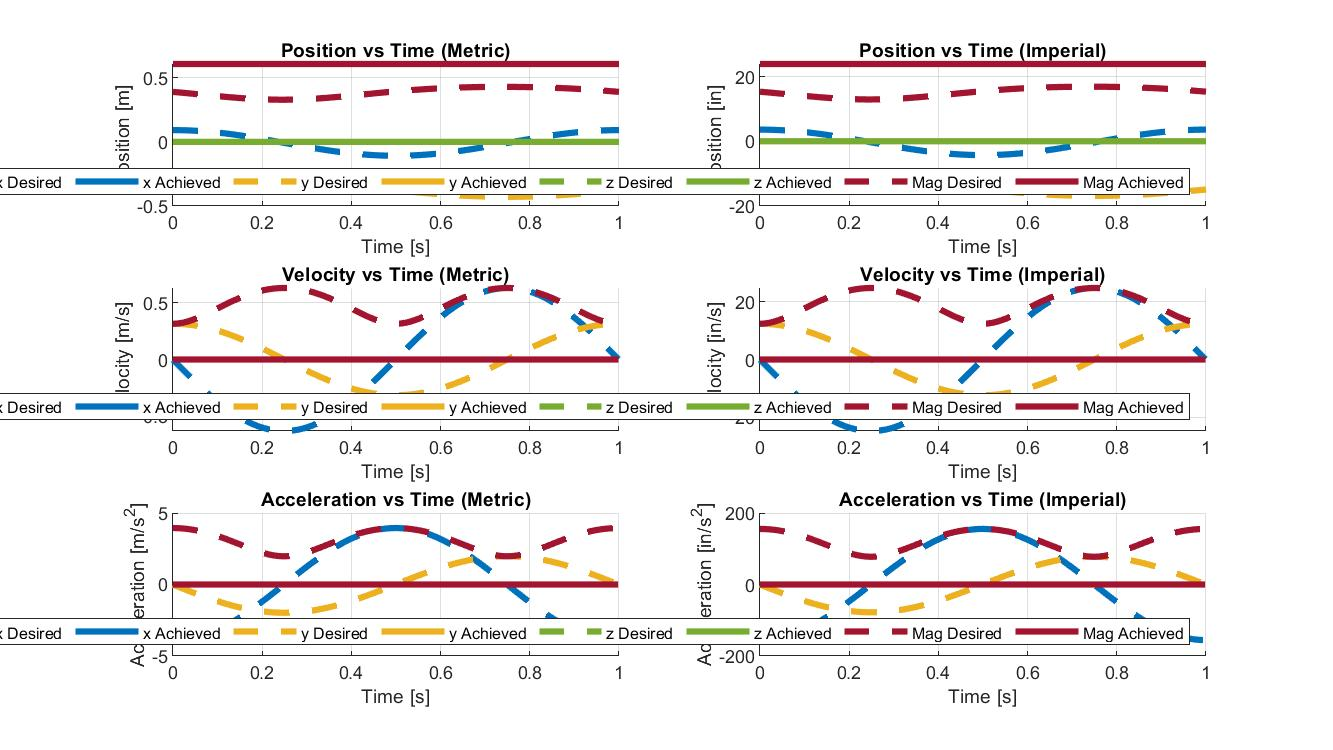
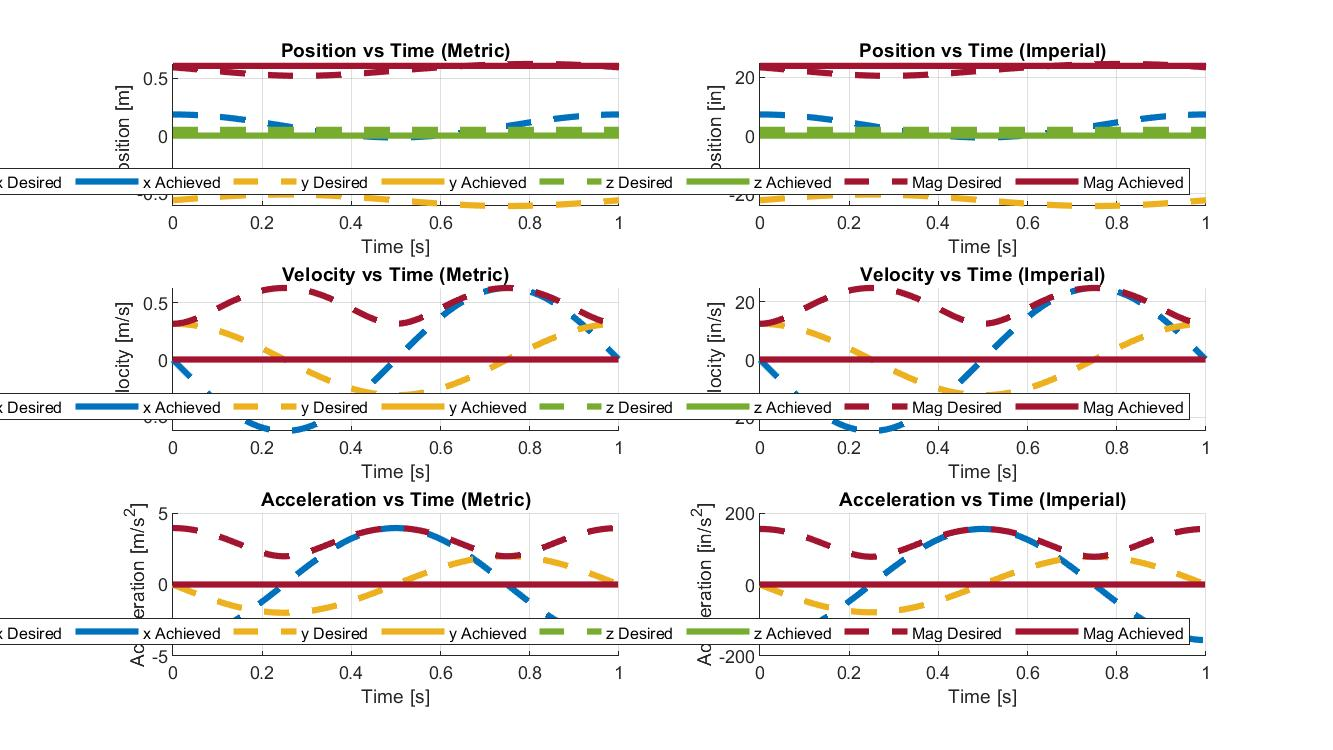
troubleshooting

diff --git a/Code/Matlab/Analysis/Dynamic_Simulation/QuadrupedSimulation.m b/Code/Matlab/Analysis/Dynamic_Simulation/QuadrupedSimulation.m
@@ -162,6 +162,16 @@ Rhome_muscles = eye(3);
 num_pts_per_muscle = size(Phome_muscles, 2);
 num_muscles = size(Phome_muscles, 3);
 
+%figure
+%hold on
+%plot3(Phome_muscles(1, :, 1), Phome_muscles(2, :, 1), Phome_muscles(3, :, 1))
+% plot3(Phome_muscles(1, :, 2), Phome_muscles(2, :, 2), Phome_muscles(3, :, 2))
+% plot3(Phome_muscles(1, :, 3), Phome_muscles(2, :, 3), Phome_muscles(3, :, 3))
+% plot3(Phome_muscles(1, :, 4), Phome_muscles(2, :, 4), Phome_muscles(3, :, 4))
+% plot3(Phome_muscles(1, :, 5), Phome_muscles(2, :, 5), Phome_muscles(3, :, 5))
+% plot3(Phome_muscles(1, :, 6), Phome_muscles(2, :, 6), Phome_muscles(3, :, 6))
+% plot3(Phome_muscles(1, :, 7), Phome_muscles(2, :, 7), Phome_muscles(3, :, 7))
+% plot3(Phome_muscles(1, :, 8), Phome_muscles(2, :, 8), Phome_muscles(3, :, 8))
 
 %% Define the Robot Home Matrices & Screw Axes.
 
@@ -272,7 +282,8 @@ foot_length = Lx4;
 ground_height = femur_length + (sind(45) * tibia_length) + foot_length;    % [m] Ground Height Relative to Body.
 
 % Define the horizontal step shift.
-horizontal_shift = 0.5 * sind(45) * tibia_length;                          % [m] Horizontal Shift to Apply to Step Trajectory.
+% horizontal_shift = 0.5 * sind(45) * tibia_length;                          % [m] Horizontal Shift to Apply to Step Trajectory.
+horizontal_shift = 0;
 
 % Define the step height and stride length.
 
@@ -281,8 +292,8 @@ Verify this matches the step trajectory and check where in code thse vars
 are used
 %}
 
-step_height = 0.05;         % [m] Step Heigth.
-step_length = 0.1;          % [m] Step Length.
+step_height = 0.025;         % [m] Step Heigth.
+step_length = 0.05;          % [m] Step Length.
 
 
 %% Generate Desired End Effector Trajectory.
@@ -338,7 +349,52 @@ end
 % State that we are done generating a desired trajectory.
 fprintf('GENERATING DESIRED END EFFECTOR TRAJECTORY... Done.\n\n')
 
+figure
+hold on
+plot3(Phome_muscles(1, :, 1), Phome_muscles(2, :, 1), Phome_muscles(3, :, 1))
+plot3(Phome_muscles(1, :, 2), Phome_muscles(2, :, 2), Phome_muscles(3, :, 2))
+plot3(Phome_muscles(1, :, 3), Phome_muscles(2, :, 3), Phome_muscles(3, :, 3))
+plot3(Phome_muscles(1, :, 4), Phome_muscles(2, :, 4), Phome_muscles(3, :, 4))
+plot3(Phome_muscles(1, :, 5), Phome_muscles(2, :, 5), Phome_muscles(3, :, 5))
+plot3(Phome_muscles(1, :, 6), Phome_muscles(2, :, 6), Phome_muscles(3, :, 6))
+plot3(Phome_muscles(1, :, 7), Phome_muscles(2, :, 7), Phome_muscles(3, :, 7))
+plot3(Phome_muscles(1, :, 8), Phome_muscles(2, :, 8), Phome_muscles(3, :, 8))
 
+plot3(Phome_joints(1, 1), Phome_joints(2, 1), Phome_joints(3, 1), '.', 'MarkerSize', 20)
+plot3(Phome_joints(1, 2), Phome_joints(2, 2), Phome_joints(3, 2),'.', 'MarkerSize', 20)
+plot3(Phome_joints(1, 3), Phome_joints(2, 3), Phome_joints(3, 3),'.', 'MarkerSize', 20)
+plot3(Phome_joints(1, 4), Phome_joints(2, 4), Phome_joints(3, 4),'.', 'MarkerSize', 20)
+
+plot3(Phome_end(1), Phome_end(2), Phome_end(3), '.', 'MarkerSize', 20)
+
+plot3(Ps_desired(1, :), Ps_desired(2, :), Ps_desired(3, :))
+axis equal
+
+thetas_desired = (pi/180)*[-120; 0; 90; -30];
+%thetas_desired = (pi/180)*[-90; 0; 90; 90];
+
+% Retrieve the transformation matrices associated with the given angles.
+Tbodies_desired = ForwardKinematics( Mbodies, Jbodies, Ss, thetas_desired );
+Tcms_desired = ForwardKinematics( Mcms, Jcms, Ss, thetas_desired );
+Tjoints_desired = ForwardKinematics( Mjoints, Jjoints, Ss, thetas_desired );
+Tmuscles_desired = ForwardKinematics( Mmuscles, Jmuscles, Ss, thetas_desired );
+Tend_desired = ForwardKinematics( Mend, Jend, Ss, thetas_desired );
+
+eomg = 1e-6; ev = 1e-6;
+
+[thetas_desired, successes] = InverseKinematics(Ss, Mend, Tend_desired, thetas_desired, eomg, ev);
+
+% Retrieve the rotational and translational components associated with the given transformation matrices.
+[Rbodies_desired, Pbodies_desired] = TransToRpAllBodies(Tbodies_desired);
+[Rcms_desired, Pcms_desired] = TransToRpAllBodies(Tcms_desired);
+[Rjoints_desired, Pjoints_desired] = TransToRpAllBodies(Tjoints_desired);
+[Rmuscles_desired, Pmuscles_desired] = TransToRpAllBodies(Tmuscles_desired);
+[Rend_desired, Pend_desired] = TransToRpAllBodies(Tend_desired);
+
+Pjoints_desired = squeeze(Pjoints_desired);
+
+plot3(Pend_desired(1), Pend_desired(2), Pend_desired(3), '.', 'MarkerSize', 20)
+plot3(Pjoints_desired(1, :), Pjoints_desired(2, :), Pjoints_desired(3, :), '.', 'MarkerSize', 20)
 %% Compute the Joint Angles That Achieve the Desired Trajectory.
 
 % State that we are computing the inverse kinematics solution to achieve the desired trajectory.
@@ -349,7 +405,8 @@ eomg = 1e-6; ev = 1e-6;
 
 % Define the starting joint angle values for the inverse kinematics algorithm.
 % theta_guess = zeros(num_joints, 1);
-theta_guess = (pi/180)*[-143; 0; 63; -10.21];
+%theta_guess = (pi/180)*[-143; 0; 63; -10.21];
+theta_guess = (pi/180)*[-90; 0; 30; -10.21];
 
 % Compute the joint angles associated with the desired trajectory.
 [thetas_desired, successes] = InverseKinematics(Ss, Mend, Ts_desired, theta_guess, eomg, ev);
@@ -369,6 +426,7 @@ ddthetas_desired = [ddthetas_desired ddthetas_desired(:, end)];
 
 % State that we are done computing the inverse kinematics solution to achieve the desired trajectory.
 fprintf('COMPUTING INVERSE KINEMATICS SOLUTION (i.e., Desired Joint Angles)... Done.\n\n')
+
 
 
 %% Compute the Desired Path of Key Points on the Open Kinematic Chain (In Addition to the End Effector).
